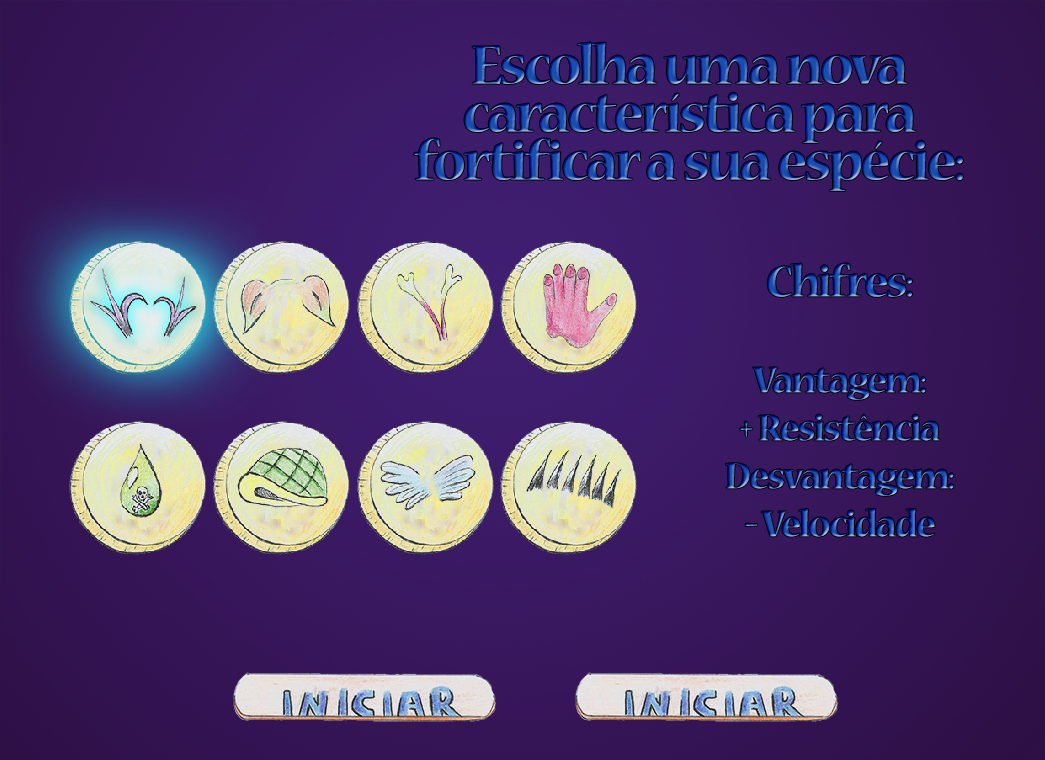
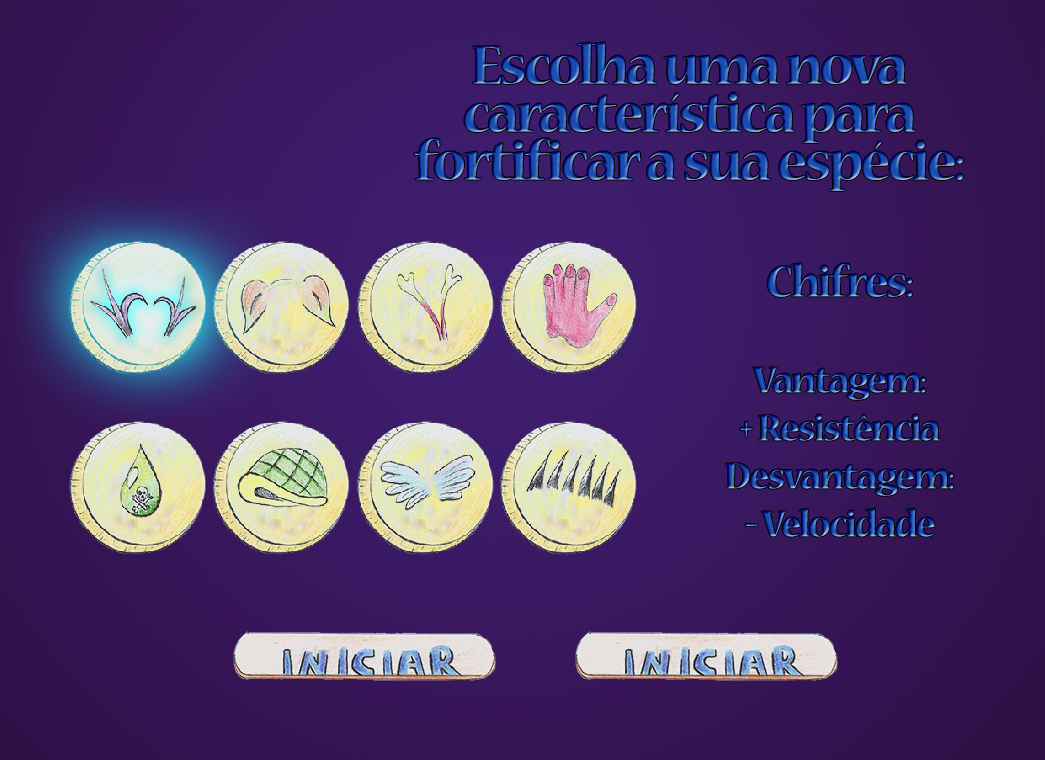
Adicionado menus de seleção de melhoria da criatura (botões temporários).

Changed region(s): [[0.2144, 0.8171, 0.49, 0.9684], [0.5512, 0.8171, 0.8268, 0.9684]]

diff --git a/js/main.js b/js/main.js
@@ -24,6 +24,7 @@ var quantidadeObjetos = 105; // imagens e sons
 var contadorObjetos = 0; // para gerenciar o loading
 var carregando = true;
 var link = 'https://raw.githubusercontent.com/Dellg/evolution-game/master/';
+var upgradeSelecionado = 0;
 
 //______________________________________________________________________________
 // carregando imagens no projeto
@@ -171,7 +172,7 @@ function setup(){
   carregaArquivo(menusImagens, 0, 10, link + 'img/menus/hud-minigames2.png');
   carregaArquivo(menusImagens, 0, 11, link + 'img/menus/hud-minigames3.png');
   for (var i = 1; i < 9; i++){
-    carregaArquivo(menusImagens, 0, 11 + i, link + 'img/menus/upgrade' + i + '.png');    
+    carregaArquivo(menusImagens, 0, 11 + i, link + 'img/menus/upgrade' + i + '.png');
   }
   // imagens das peças do fóssil do minigame do level 5
   for (var i = 1; i < 9; i++){
@@ -240,26 +241,73 @@ function setup(){
   botaoOni.hide();
 
   // informações do pré-Level 2
-  caract = createRadio();
-  caract.style("color", "#FFFFFF");
-  caract.style("font-family", "Times New Roman");
-  caract.style("font-size", "10pt");
-  caract.option('Chifres (150 pontos de modificação)----------',0);
-  caract.option('Orelhas Grandes (100 pontos de modificação)',1);
-  caract.option('Duas Caudas (150 pontos de modificação)---',2);
-  caract.option('Escalar Árvores (100 pontos de modificação)',3);
-  caract.option('Peçonha (150 pontos de modificação)----------',4);
-  caract.option('Carapaça (100 pontos de modificação)---------',5);
-  caract.option('Asas (150 pontos de modificação)---------------',6);
-  caract.option('Espinhos (85 pontos de modificação)----------',7);
-  caract.option('Nada',8);
-  caract.value(0);
-  caract.position(50, 145);
-  caract.style('width', '280px');
-  caract.hide();
+  botaoUpgrade1 = createButton('');
+  botaoUpgrade1.class('botaoUpgrade');
+  botaoUpgrade1.position(78, 248);
+  botaoUpgrade1.size(134, 134);
+  botaoUpgrade1.mousePressed(function t() { upgradeSelecionado = 0});
+  botaoUpgrade1.hide();
 
-  botaoConfirmar = createButton('Confirmar');
-  botaoConfirmar.position(50, 360);
+  botaoUpgrade2 = createButton('');
+  botaoUpgrade2.class('botaoUpgrade');
+  botaoUpgrade2.position(222, 248);
+  botaoUpgrade2.size(134, 134);
+  botaoUpgrade2.mousePressed(function t() { upgradeSelecionado = 1});
+  botaoUpgrade2.hide();
+
+  botaoUpgrade3 = createButton('');
+  botaoUpgrade3.class('botaoUpgrade');
+  botaoUpgrade3.position(366, 248);
+  botaoUpgrade3.size(134, 134);
+  botaoUpgrade3.mousePressed(function t() { upgradeSelecionado = 2});
+  botaoUpgrade3.hide();
+
+  botaoUpgrade4 = createButton('');
+  botaoUpgrade4.class('botaoUpgrade');
+  botaoUpgrade4.position(510, 248);
+  botaoUpgrade4.size(134, 134);
+  botaoUpgrade4.mousePressed(function t() { upgradeSelecionado = 3});
+  botaoUpgrade4.hide();
+
+  botaoUpgrade5 = createButton('');
+  botaoUpgrade5.class('botaoUpgrade');
+  botaoUpgrade5.position(78, 428);
+  botaoUpgrade5.size(134, 134);
+  botaoUpgrade5.mousePressed(function t() { upgradeSelecionado = 4});
+  botaoUpgrade5.hide();
+
+  botaoUpgrade6 = createButton('');
+  botaoUpgrade6.class('botaoUpgrade');
+  botaoUpgrade6.position(222, 428);
+  botaoUpgrade6.size(134, 134);
+  botaoUpgrade6.mousePressed(function t() { upgradeSelecionado = 5});
+  botaoUpgrade6.hide();
+
+  botaoUpgrade7 = createButton('');
+  botaoUpgrade7.class('botaoUpgrade');
+  botaoUpgrade7.position(366, 428);
+  botaoUpgrade7.size(134, 134);
+  botaoUpgrade7.mousePressed(function t() { upgradeSelecionado = 6});
+  botaoUpgrade7.hide();
+
+  botaoUpgrade8 = createButton('');
+  botaoUpgrade8.class('botaoUpgrade');
+  botaoUpgrade8.position(510, 428);
+  botaoUpgrade8.size(134, 134);
+  botaoUpgrade8.mousePressed(function t() { upgradeSelecionado = 7});
+  botaoUpgrade8.hide();
+
+  botaoCancelar = createButton('');
+  botaoCancelar.id('botaoCancelar');
+  botaoCancelar.position(250, 627);
+  botaoCancelar.size(210, 50);
+  botaoCancelar.mousePressed(function t() { upgradeSelecionado = 8; confirmarNovaCaracteristica()});
+  botaoCancelar.hide();
+
+  botaoConfirmar = createButton('');
+  botaoConfirmar.id('botaoConfirmar');
+  botaoConfirmar.position(600, 627);
+  botaoConfirmar.size(210, 50);
   botaoConfirmar.mousePressed(confirmarNovaCaracteristica);
   botaoConfirmar.hide();
 
@@ -325,14 +373,14 @@ function setup(){
   // iniciar um jogo apenas com as criaturas pré-definidas do level
   //______________________________________________________________________________
   function confirmarNovaCaracteristica() {
-    if (criatura[1] == caract.value()){
+    if (criatura[1] == upgradeSelecionado){
       alert("Você já possui essa melhoria, escolha outra!");
       return false;
     }
 
     // dá a pontuação apropriada dependendo do upgrade
-    switch (caract.value()) {
-      case "0":
+    switch (upgradeSelecionado) {
+      case 0:
         if (pontuacao >= 150){
           criaturasSalvas[0][0].push("Chifres");
           criaturasSalvas[0][5] += 0.25;
@@ -348,7 +396,7 @@ function setup(){
           return false;
         }
         break;
-      case "1":
+      case 1:
         if (pontuacao >= 100){
           criaturasSalvas[0][0].push("Orelhas Grandes");
           criaturasSalvas[0][4] += 0.25;
@@ -364,7 +412,7 @@ function setup(){
           return false;
         }
         break;
-      case "2":
+      case 2:
         if (pontuacao >= 150){
           criaturasSalvas[0][0].push("Duas Caudas");
           criaturasSalvas[0][3] -= 0.3;
@@ -380,7 +428,7 @@ function setup(){
           return false;
         }
         break;
-      case "3":
+      case 3:
         if (pontuacao >= 100){
           criaturasSalvas[0][0].push("Escalar Árvores");
           criaturasSalvas[0][4] += 0.25;
@@ -398,7 +446,7 @@ function setup(){
           return false;
         }
         break;
-      case "4":
+      case 4:
         if (pontuacao >= 150){
           criaturasSalvas[0][0].push("Peçonha");
           criaturasSalvas[0][3] -= 0.3;
@@ -416,7 +464,7 @@ function setup(){
           return false;
         }
         break;
-      case "5":
+      case 5:
         if (pontuacao >= 100){
           criaturasSalvas[0][0].push("Carapaça");
           criaturasSalvas[0][5] += 0.33;
@@ -434,7 +482,7 @@ function setup(){
           return false;
         }
         break;
-      case "6":
+      case 6:
         if (pontuacao >= 150){
           criaturasSalvas[0][0].push("Asas");
           criaturasSalvas[0][3] += 0.3;
@@ -452,7 +500,7 @@ function setup(){
           return false;
         }
         break;
-      case "7":
+      case 7:
         if (pontuacao >= 85){
           criaturasSalvas[0][0].push("Espinhos");
           criaturasSalvas[0][3] += 0.3;
@@ -470,7 +518,7 @@ function setup(){
           return false;
         }
         break;
-      case "8":
+      case 8:
         break;
     }
 
@@ -497,7 +545,15 @@ function setup(){
       criaturasSalvas[2][6] = imagens[23];
     }
 
-    caract.remove();
+    botaoUpgrade1.remove();
+    botaoUpgrade2.remove();
+    botaoUpgrade3.remove();
+    botaoUpgrade4.remove();
+    botaoUpgrade5.remove();
+    botaoUpgrade6.remove();
+    botaoUpgrade7.remove();
+    botaoUpgrade8.remove();
+    botaoCancelar.remove();
     botaoConfirmar.remove();
     levelnum = 2;
     level = new Level2(criaturasSalvas);
@@ -604,63 +660,35 @@ function draw(){
       }
     } else if (menu == 1){ // levels
       if (levelnum == 1.5){ // escolha de novas características .hide() e .show()
-        fill(15);
-        noStroke();
-        rect(30,90,800,100);
-        rect(350,130,800,100);
-        fill(255);
-        textFont("Times New Roman", 32);
-        text("Escolha uma nova característica para fortificar sua criatura:", 60, 120);
-        textFont("Times New Roman", 16);
-        switch (caract.value()) {
-          case "0":
-            text("Adiciona chifres na sua criatura.", 380, 150);
-            text("Vantagem: +Resistência", 380, 165);
-            text("Desvantagem: -Velocidade", 380, 180);
+        switch (upgradeSelecionado) {
+          case 0:
+            image(menusImagens[12], 0, 0);
             break;
-          case "1":
-            text("Adiciona orelhas grandes na sua criatura.", 380, 150);
-            text("Vantagem: +Velocidade", 380, 165);
-            text("Desvantagem: -Resistência", 380, 180);
+          case 1:
+            image(menusImagens[13], 0, 0);
             break;
-          case "2":
-            text("Adiciona duas caudas na sua criatura.", 380, 150);
-            text("Vantagem: -Fome", 380, 165);
-            text("Desvantagem: -Resistência", 380, 180);
+          case 2:
+            image(menusImagens[14], 0, 0);
             break;
-          case "3":
-            text("Adiciona pés que possibilitam escalar árvores na sua criatura.", 380, 150);
-            text("Vantagem: +Velocidade", 380, 165);
-            text("Desvantagem: +Fome", 380, 180);
+          case 3:
+            image(menusImagens[15], 0, 0);
             break;
-          case "4":
-            text("Adiciona peçonha na sua criatura.", 380, 150);
-            text("Vantagem: -Fome", 380, 165);
-            text("Desvantagem: -Velocidade", 380, 180);
+          case 4:
+            image(menusImagens[16], 0, 0);
             break;
-          case "5":
-            text("Adiciona uma carapaça na sua criatura.", 380, 150);
-            text("Vantagem: ++Resistência", 380, 165);
-            text("Desvantagem: --Velocidade", 380, 180);
+          case 5:
+            image(menusImagens[17], 0, 0);
             break;
-          case "6":
-            text("Adiciona asas na sua criatura.", 380, 150);
-            text("Vantagem: +Velocidade", 380, 165);
-            text("Desvantagem: +Fome", 380, 180);
+          case 6:
+            image(menusImagens[18], 0, 0);
             break;
-          case "7":
-            text("Adiciona espinhos na sua criatura.", 380, 150);
-            text("Vantagem: +Resistência", 380, 165);
-            text("Desvantagem: +Fome", 380, 180);
+          case 7:
+            image(menusImagens[19], 0, 0);
             break;
-          case "8":
-            text("Não adiciona nada na sua criatura.", 380, 150);
-            text("Vantagem: nenhuma", 380, 165);
-            text("Desvantagem: nenhuma", 380, 180);
+          case 8:
+            image(menusImagens[20], 0, 0);
             break;
         }
-        caract.show();
-        botaoConfirmar.show();
       } else {
         level.rodar(); // todos os levels
       }

diff --git a/js/level.js b/js/level.js
@@ -232,6 +232,16 @@ Level.prototype.rodar = function(){
     criaturasSalvas = tipoCriaturas;
     musicas[3].stop();
     musicas[4].loop();
+    botaoUpgrade1.show();
+    botaoUpgrade2.show();
+    botaoUpgrade3.show();
+    botaoUpgrade4.show();
+    botaoUpgrade5.show();
+    botaoUpgrade6.show();
+    botaoUpgrade7.show();
+    botaoUpgrade8.show();
+    botaoCancelar.show();
+    botaoConfirmar.show();
     levelnum = 1.5;
     botaoCrdts.elt.textContent = 'Origins - por Adrian von Ziegler';
 

diff --git a/css/estilo.css b/css/estilo.css
@@ -10,10 +10,20 @@ button:hover {
   box-shadow: 0px 0px 40px red;
 }
 
+.botaoUpgrade {
+  border-radius: 70px;
+}
+
 #botaoIniciar {
   border-radius: 20px;
 }
 #botaoSelecionou {
+  border-radius: 20px;
+}
+#botaoCancelar {
+  border-radius: 20px;
+}
+#botaoConfirmar {
   border-radius: 20px;
 }
 
